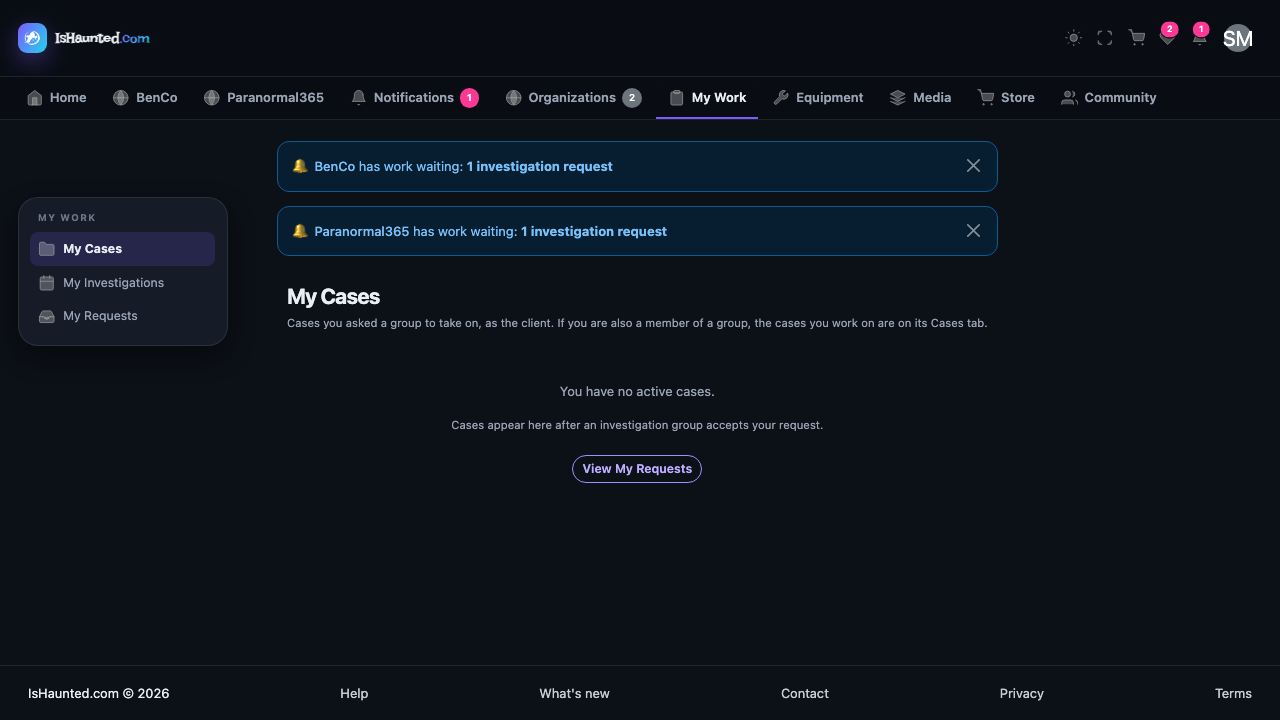
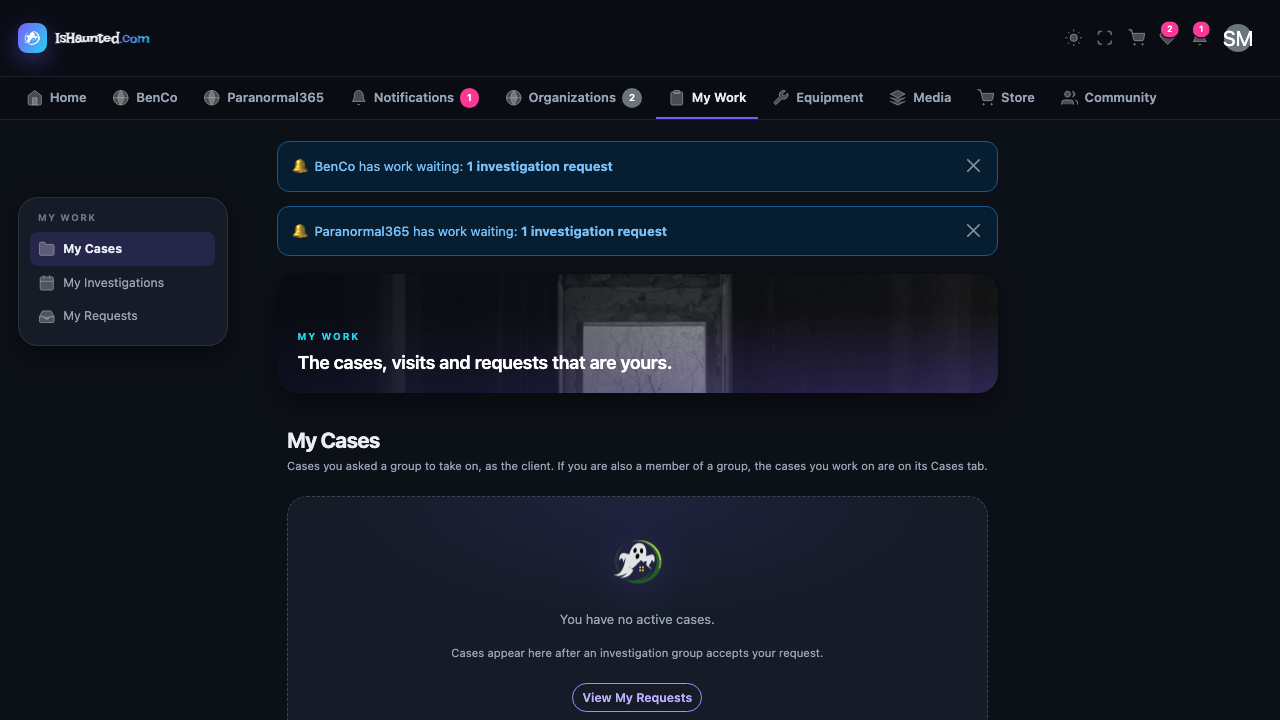
Signal: a photograph for every section, and a picture for every empty list
Ben: "I like the look, but it feels empty without images and styling." It did, for two specific
reasons, and both are fixed in one place each rather than page by page.

EVERY PAGE OPENED ON A BARE HEADING, while the mock-up opened on a picture. SectionBanner sits in
the layout and draws a photograph for the section the page belongs to — My Work, Your Groups,
Equipment, the store, Administration — so every page has one without being edited, and a new page
gets one by belonging to a section. It carries the SECTION, not the page: the page's own heading
follows directly beneath, and a band repeating it would say the same thing twice an inch apart.
Home brings its own two heroes and is skipped, as are sign-in and the editors, which want the
whole height. An address the site has not described gets no band rather than an invented one.

EMPTY LISTS WERE A LINE OF GREY TEXT. BenListState is used by 116 screens and every one of their
empty states passes through its empty branch, so that branch now frames whatever the page wrote
in one card with the ghost mark lit over it. One change, 116 screens, and about thirty
hand-styled `text-center py-5` blocks now share a look without being touched. The mark rather
than a photograph: it is the brand, it is already in the cache from the header, and a photograph
behind a sentence on 116 screens would be heavy and loud where an empty page should be calm.
The page's own words still lead — `Empty` renders as-is inside the frame.
[…]

diff --git a/Ben.Web.Website.Library/Shared/SectionBanner.razor.css b/Ben.Web.Website.Library/Shared/SectionBanner.razor.css
@@ -1,0 +1,67 @@
+/* Every value is a Signal token, so the band follows the theme and the skin with none of its own. */
+
+.section-banner {
+    position: relative;
+    overflow: hidden;
+    isolation: isolate;
+    min-height: 8.5rem;
+    margin: .25rem 0 1.5rem;
+    border-radius: var(--ben-radius-lg);
+    box-shadow: var(--ben-shadow);
+    display: flex;
+    align-items: flex-end;
+}
+
+.section-banner__photo {
+    position: absolute;
+    inset: 0;
+    z-index: -1;
+    background-position: center 45%;
+    background-size: cover;
+    /* the photograph eases in, rather than snapping, once it arrives */
+    animation: section-banner-in .6s ease both;
+}
+
+/* Text over a photograph is light in BOTH themes, with its own scrim — the rule the light-mode
+   mock-up taught. The accent wash at the foot ties the picture to the skin. */
+.section-banner__photo::after {
+    content: "";
+    position: absolute;
+    inset: 0;
+    background:
+        linear-gradient(100deg, rgba(6, 10, 18, .84) 0%, rgba(6, 10, 18, .50) 50%, rgba(6, 10, 18, .12) 100%),
+        linear-gradient(0deg, rgba(var(--ben-accent-rgb), .30) 0%, transparent 70%);
+}
+
+.section-banner__inner { padding: 1.1rem 1.5rem 1.15rem; }
+
+.section-banner__kicker {
+    font-size: .7rem;
+    font-weight: 700;
+    letter-spacing: .18em;
+    text-transform: uppercase;
+    color: var(--ben-accent-2);
+    margin-bottom: .2rem;
+}
+
+.section-banner__line {
+    color: #fff;
+    font-size: clamp(1.05rem, 1.6vw, 1.3rem);
+    font-weight: 600;
+    letter-spacing: -.01em;
+    max-width: 40ch;
+}
+
+@keyframes section-banner-in {
+    from { opacity: 0; transform: scale(1.04); }
+    to   { opacity: 1; transform: scale(1); }
+}
+
+@media (prefers-reduced-motion: reduce) {
+    .section-banner__photo { animation: none; }
+}
+
+@media (max-width: 575.98px) {
+    .section-banner { min-height: 6.5rem; }
+    .section-banner__line { font-size: 1rem; }
+}

diff --git a/Ben.Web.Website.Library/wwwroot/kit/ben-kit.css b/Ben.Web.Website.Library/wwwroot/kit/ben-kit.css
@@ -168,3 +168,46 @@ label > .sa-icon,
     height: calc(100vh - var(--ben-appbar-h, 58px));
     overflow: hidden;
 }
+
+/* ── Empty states (Signal) ───────────────────────────────────────────────────
+   BenListState frames every list's empty state in this, so 116 screens share one look. Tokens
+   only. The mark is a quiet, accent-lit watermark above the words — a picture for an empty page
+   that does not compete with what the page is saying. */
+.ben-empty {
+    position: relative;
+    overflow: hidden;
+    text-align: center;
+    padding: 2.5rem 1.5rem 2.25rem;
+    border: 1px dashed var(--ben-line-strong);
+    border-radius: var(--ben-radius-lg);
+    background:
+        radial-gradient(60% 70% at 50% 0%, rgba(var(--ben-accent-rgb), .10) 0%, transparent 70%),
+        var(--ben-surface);
+    color: var(--ben-ink-muted);
+}
+
+.ben-empty__mark {
+    display: block;
+    width: 4.5rem;
+    height: 4.5rem;
+    margin: 0 auto 1rem;
+    opacity: .9;
+    filter: drop-shadow(0 6px 22px rgba(var(--ben-accent-rgb), .35));
+    animation: ben-empty-float 5s ease-in-out infinite;
+}
+
+.ben-empty__title { color: var(--ben-ink); font-weight: 650; }
+
+/* the page's own content keeps its paragraphs and buttons; only the padding it brought for a
+   frameless page is taken back, or the frame would double it */
+.ben-empty > .py-5 { padding-top: 0 !important; padding-bottom: 0 !important; }
+
+/* a ghost should drift a little; nothing more */
+@keyframes ben-empty-float {
+    0%, 100% { transform: translateY(0); }
+    50%      { transform: translateY(-5px); }
+}
+
+@media (prefers-reduced-motion: reduce) {
+    .ben-empty__mark { animation: none; }
+}

diff --git a/Ben.Web.Playwright/Capture/SignalShots.cs b/Ben.Web.Playwright/Capture/SignalShots.cs
@@ -30,7 +30,11 @@ public class SignalShots : BenTestBase
     [
         ("home",            "/"),
         ("my-cases",        "/my-cases"),
+        ("my-requests",     "/my-requests"),
         ("organizations",   "/organizations"),
+        ("notifications",   "/notifications"),
+        ("my-equipment",    "/my-equipment"),
+        ("store",           "/store"),
         ("styleguide",      "/styleguide"),
     ];
 
